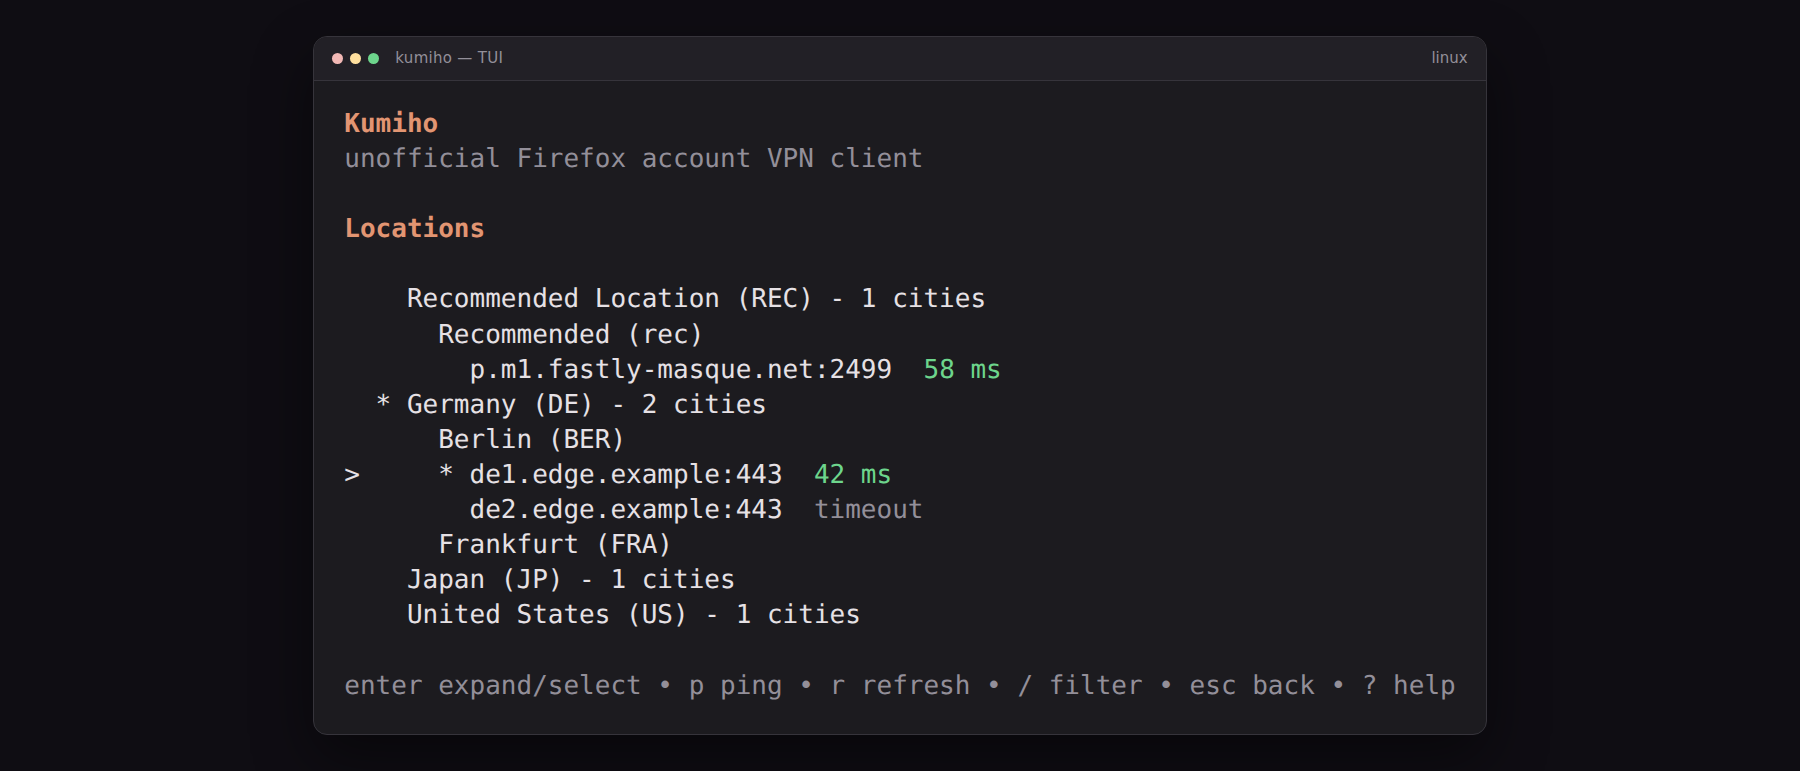
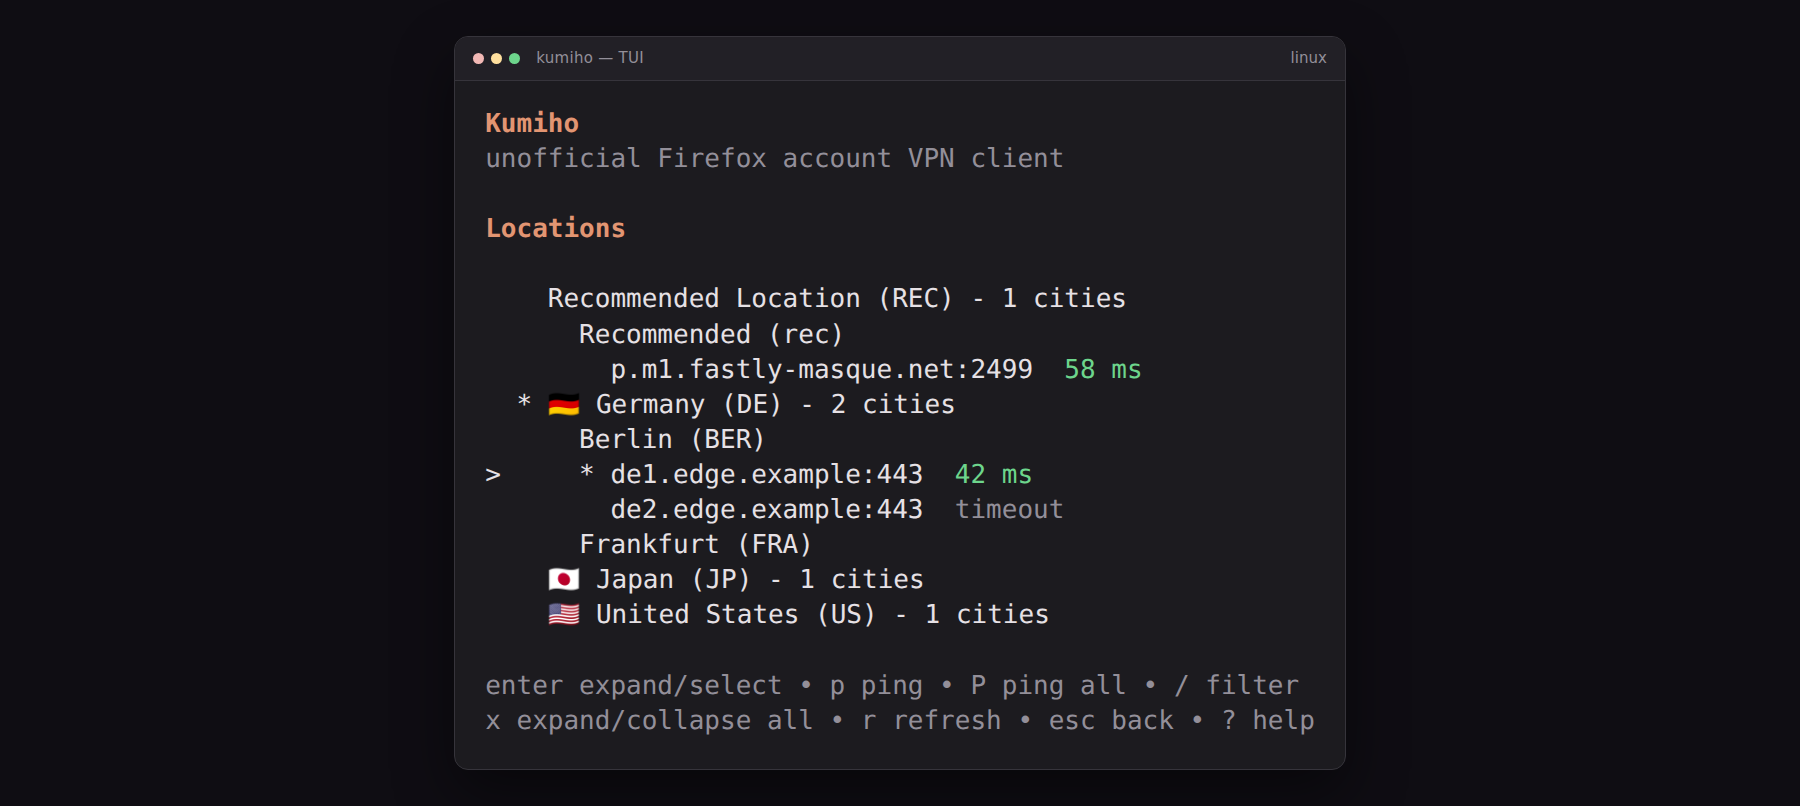
docs: regenerate the v0.5.1 screenshots

diff --git a/scripts/screenshots/README.md b/scripts/screenshots/README.md
@@ -14,7 +14,7 @@ Run from the repository root:
 
     scripts/screenshots/capture.sh
 
-The script rebuilds the web harness with `Version=v0.4.0` (override with
+The script rebuilds the web harness with `Version=v0.5.1` (override with
 `KUMIHO_CAPTURE_VERSION`), starts it on `0.0.0.0:7407`, and restarts it before
 each screen so a notice from one state cannot leak into the next. It stops the
 harness when done.
@@ -26,7 +26,15 @@ harness when done.
   `scripts/visual/capture.mjs`; the TUI renderer uses `npx playwright
   screenshot`. The resolution order and cache setup are documented in
   `scripts/visual/README.md`.
-- No root and no system changes; the harness serves the mock daemon only.
+- Noto Color Emoji, so country flags render as flags instead of fallback
+  letters:
+
+      sudo apt-get install -y fonts-noto-color-emoji
+      fc-cache -f
+      fc-list : family | grep -i 'Noto Color Emoji'
+
+  The script fails early when `fc-list` cannot find the font. The harness
+  itself serves the mock daemon only and needs no other system change.
 
 ## How it works
 
